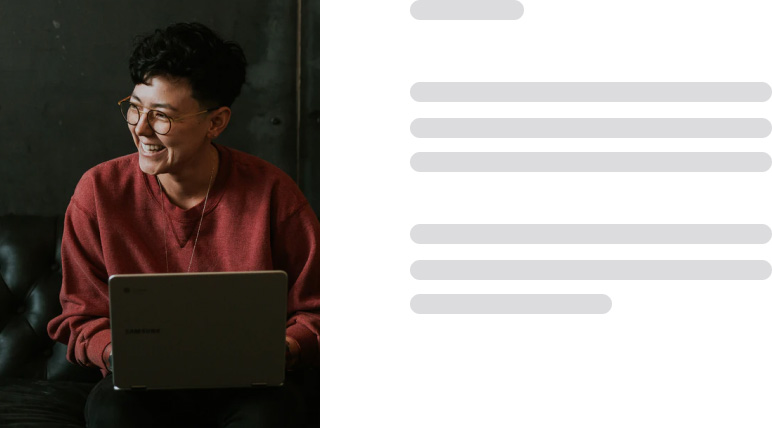
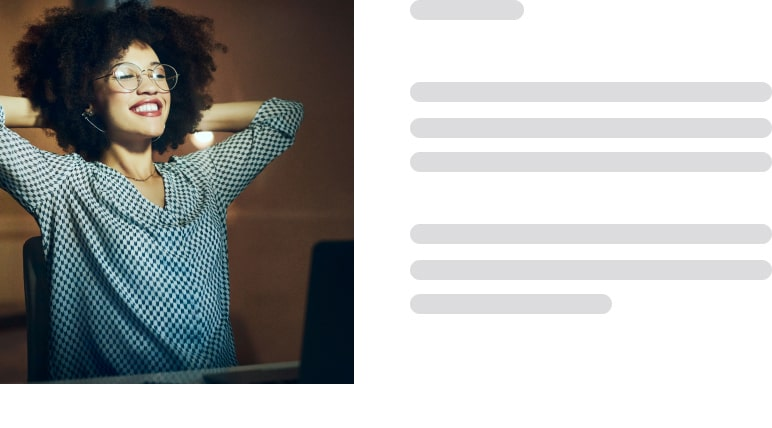
Assistant: Change illustration in Site Type step in Assistant

diff --git a/projects/plugins/jetpack/_inc/client/recommendations/prompts/site-type/index.jsx b/projects/plugins/jetpack/_inc/client/recommendations/prompts/site-type/index.jsx
@@ -102,7 +102,7 @@ const SiteTypeQuestionComponent = props => {
 				'jetpack'
 			) }
 			answer={ answerSection }
-			illustrationPath="/recommendations/site-type-illustration.jpg"
+			illustrationPath="recommendations/site-type-illustration.jpg"
 		/>
 	);
 };
